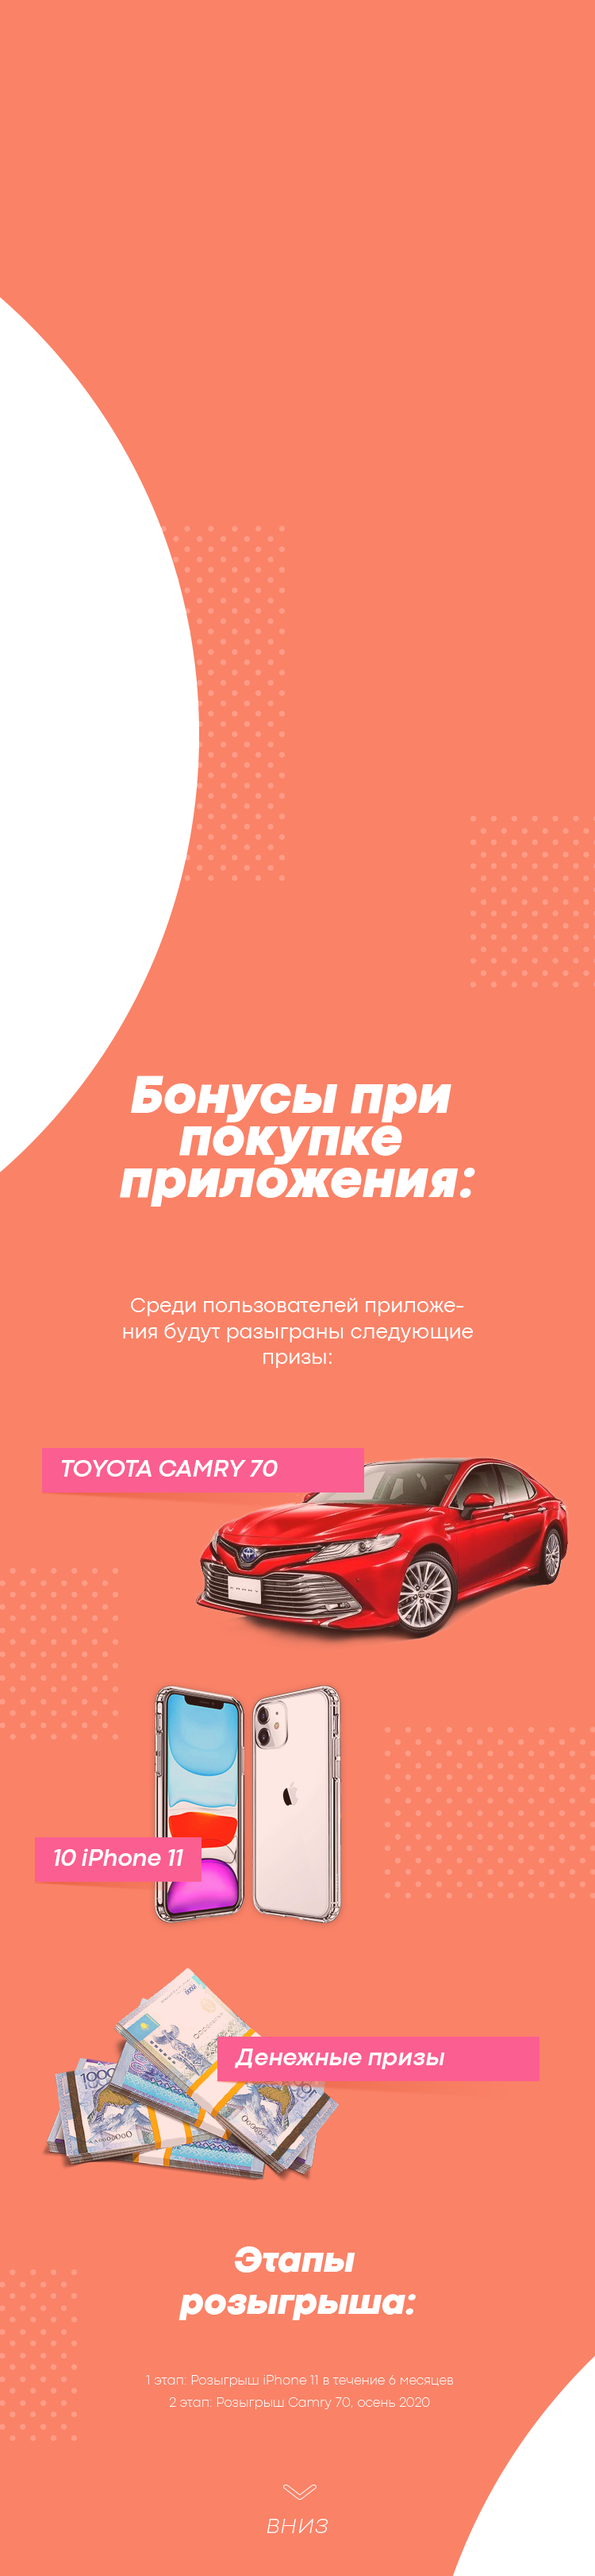
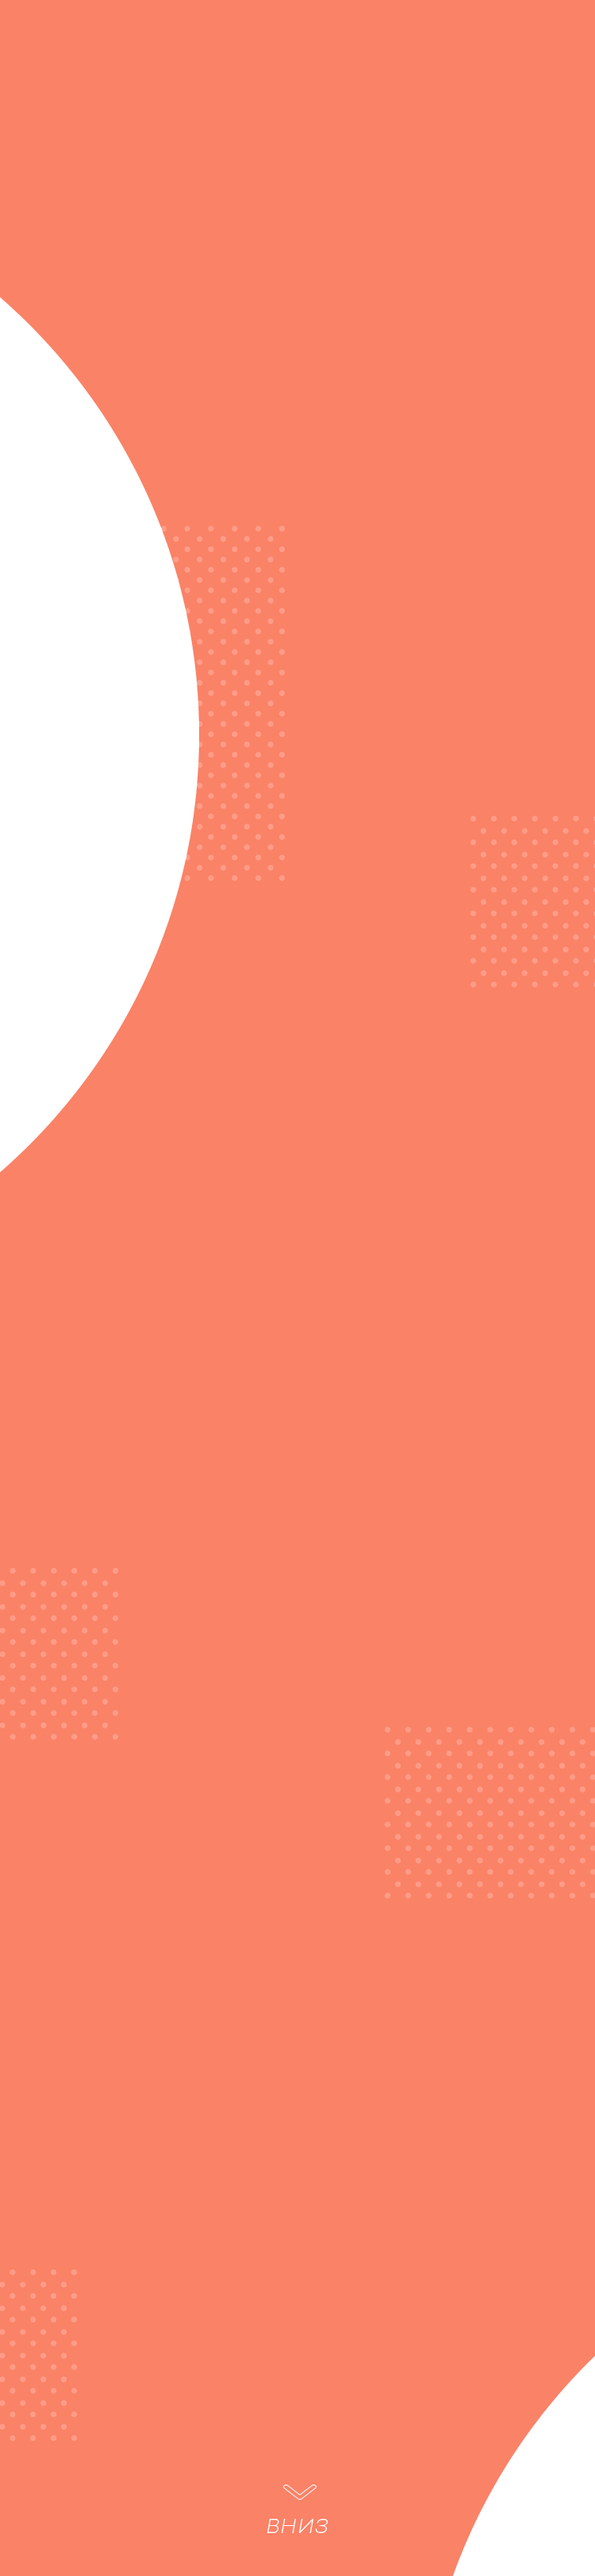
second Mobile

diff --git a/src/app/second/second.component.html b/src/app/second/second.component.html
@@ -78,7 +78,7 @@
 </div>
 
 <div *ngIf="isMobile" class="fluid-container bg mobi-bg">
-  <app-navigation></app-navigation>
+  <app-navigation class=""></app-navigation>
   <div class="row">
     <div class="col-12">
       <div class="mobileMobile">
@@ -119,40 +119,51 @@
     </div>
   </div>
   <div class="row">
-    <div class="mobileMobile">
-      <div id="carousel" class="carousel slide" data-ride="carousel">
-        <!-- The slideshow -->
-        <div class="carousel-inner">
-          <div class="carousel-item active">
-            <img src="../../assets/images/mopPhoto.png">
-            <h5> Авторские курсы по
-              шести направлениям</h5>
-            <p id="small">В рамках продвижения своего
-              мобильного приложения, предлагает всем новым подписчикам возможность выиграть множество призов: </p>
-          </div>
-          <div class="carousel-item">
-            <img src="../../assets/images/mopPhoto.png">
-            <h5> Авторские курсы по
-              шести направлениям</h5>
-            <p id="small">В рамках продвижения своего
-              мобильного приложения, предлагает всем новым подписчикам возможность выиграть множество призов: </p>
-          </div>
-          <div class="carousel-item">
-            <img src="../../assets/images/mopPhoto.png">
-            <h5> Авторские курсы по
-              шести направлениям</h5>
-            <p id="small">В рамках продвижения своего
-              мобильного приложения, предлагает всем новым подписчикам возможность выиграть множество призов: </p>
-          </div>
-        </div>
-        <!-- Left and right controls -->
-        <a class="carousel-control-prev" href="#carousel" data-slide="prev">
-          <span class="carousel-control-prev-icon"></span>
-        </a>
-        <a class="carousel-control-next" href="#carousel" data-slide="next">
-          <span class="carousel-control-next-icon"></span>
-        </a>
-      </div>
+    <div class="col-12 text-center">
+      <h1 class="font-color-white">Бонусы при
+        покупке приложения:</h1>
     </div>
+  </div>
+  <div class="row">
+    <div class="col-12 text-center">
+      <p class="font-color-white">Среди пользователей приложения будут разыграны следующие призы:</p>
+    </div>
+  </div>
+  <div class="row prizes">
+    <div class="col-12">
+      <img src="../../assets/images/toyota.png" alt="">
+    </div>
+  </div>
+  <div class="row">
+    <div class="col-12">
+      <img src="../../assets/images/iphone.png" alt="">
+    </div>
+  </div>
+  <div class="row">
+    <div class="col-12">
+      <img src="../../assets/images/money.png" alt="">
+    </div>
+  </div>
+  <div class="row">
+    <div class="col-12 text-center">
+     <h2 class="font-color-white">Этапы
+      розыгрыша:</h2>
+    </div>
+  </div>
+  <div class="row">
+    <div class="col-12 text-center">
+      <p class="font-color-white">1 этап: Розыгрыш iPhone 11 в течение 6 месяцев</p>
+      <p class="font-color-white">2 этап: Розыгрыш Camry 70, осень 2020</p>
+    </div>
+  </div>
+  <div class="row links">
+      <ul class="ml-auto mr-3 mb-2 navbar-nav">
+        <li class="nav-item">
+          <a><img src="../../assets/images/facebook.png" alt=""></a>
+        </li>
+        <li class="nav-item">
+          <a><img src="../../assets/images/insta.png" alt=""></a>
+        </li>
+      </ul>
   </div>
 </div>

diff --git a/src/app/second/second.component.css b/src/app/second/second.component.css
@@ -76,6 +76,10 @@
 .mobileMobile #carousel {
   margin-top: 5%;
 }
+.font-color-white{
+
+  color: #ffffff;
+}
 .mobileMobile {
     background-image: url('../../assets/images/mobMobile.png');
     bottom: 0%;
@@ -91,4 +95,12 @@
 
 .row {
   margin: 0%;
+}
+
+.links img{
+  padding: 5%;
+}
+
+.prizes .col-12 img {
+  width: 100%;
 }

diff --git a/src/app/navigation/navigation.component.html b/src/app/navigation/navigation.component.html
@@ -1,4 +1,4 @@
-<nav class="navbar navbar-expand-lg navbar-dark">
+<nav class="navbar navbar-expand-lg navbar-dark mb-5">
   <a class="ml-auto mr-auto navbar-brand" href="#">
     <img src="../../assets/images/VectorSmartObject_0.png">
   </a>

diff --git a/src/app/navigation/navigation.component.css b/src/app/navigation/navigation.component.css
@@ -10,6 +10,10 @@
   font-family: "CodecPro-BoldItalic";
 }
 
-.navbar-nav {
+.navbar-nav a {
+  padding: 0%;
+}
+
+  .navbar-nav {
   flex-direction: column;
 }
